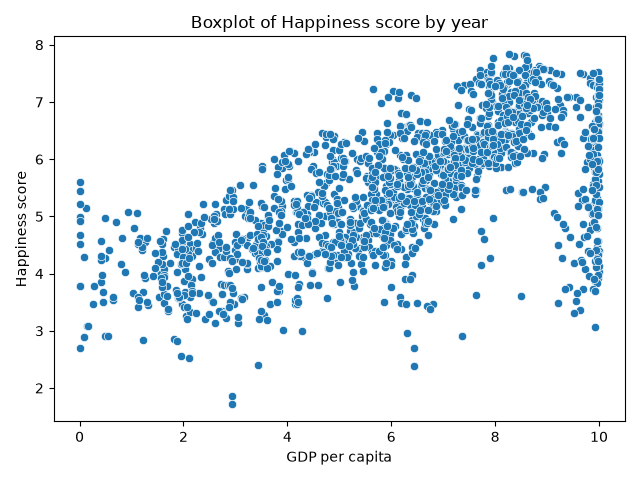
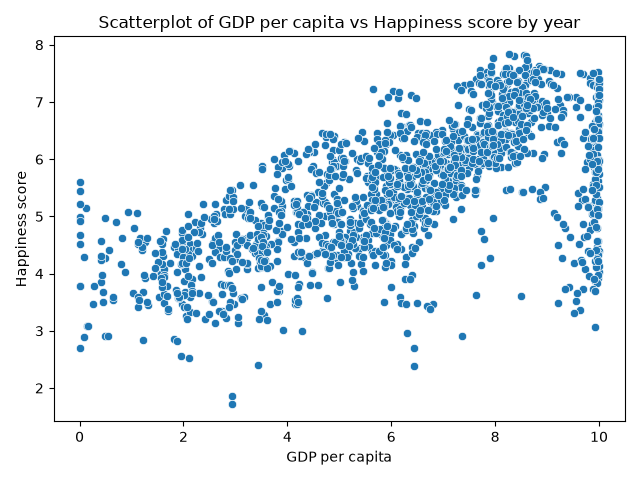
Fixed according to AirHub review.

Changed region(s): [[0.1562, 0.0312, 0.9062, 0.0625]]

diff --git a/assignments_01/project_01.py b/assignments_01/project_01.py
@@ -34,9 +34,9 @@ def load_df():
 @task
 def desc_stat(df):
     logger = get_run_logger()
-    logger.info(f'Happiness score mean: {df['Happiness score'].mean()}')
-    logger.info(f'Happiness score median: {df['Happiness score'].median()}')
-    logger.info(f'Happiness score SD: {df['Happiness score'].std()}')
+    logger.info(f"Happiness score mean: {df['Happiness score'].mean()}")
+    logger.info(f"Happiness score median: {df['Happiness score'].median()}")
+    logger.info(f"Happiness score SD: {df['Happiness score'].std()}")
 
     score_by_year = df.groupby('Year')['Happiness score'].mean()
     score_by_region = df.groupby('Regional indicator')['Happiness score'].mean().sort_values(ascending=False)
@@ -151,7 +151,8 @@ def summary(df, score_by_region, msg, sig_var):
     logger.info(f'Top 3 regions by mean happiness score:\n {score_by_region.head(3)}')
     logger.info(f'Bottom 3 regions by mean happiness score:\n {score_by_region.tail(3)}')
     logger.info(f'Result of t-test pre/post-2020: {msg}')
-    logger.info(f'Variable most strongly correlated to Happiness score: {sorted(sig_var, key=lambda x: abs(x[1]), reverse=True)[0][0]}')
+    strongest_var = sorted(sig_var, key=lambda x: abs(x[1]), reverse=True)[0]
+    logger.info(f'Variable most strongly correlated to Happiness score: {strongest_var[0]} with correlation coefficient {strongest_var[1]}')
 
 
 @flow
